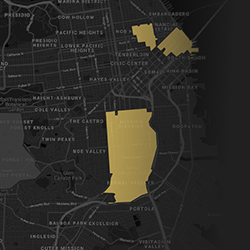
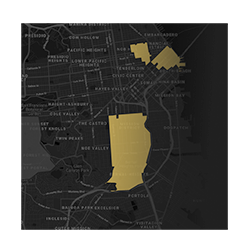
Updated images, template
Justified text, changed font weights, added email preferences link. made images same width (removed transparent padding.

diff --git a/Email/introducing_insight_email_template.html b/Email/introducing_insight_email_template.html
@@ -245,14 +245,14 @@
                         <table border="0" cellpadding="0" cellspacing="0" role="presentation" style="vertical-align:top;" width="100%">
                           <tr>
                             <td align="left" style="font-size:0px;padding:10px 25px;word-break:break-word;">
-                              <div style="font-family:'Muli',Arial,Helvetica,sans-serif;font-size:17px;font-weight:normal;line-height:26px;text-align:left;color:#1F789B;">
+                              <div style="font-family:'Muli',Arial,Helvetica,sans-serif;font-size:17px;font-weight:600;line-height:26px;text-align:justify;color:#1F789B;">
                                 <div pardot-region="">We've made it faster to get around the platform.</div>
                               </div>
                             </td>
                           </tr>
                           <tr>
                             <td align="left" style="font-size:0px;padding:10px 25px;word-break:break-word;">
-                              <div style="font-family:'Muli',Arial,Helvetica,sans-serif;font-size:14px;font-weight:300;line-height:21px;text-align:left;color:#414141;">
+                              <div style="font-family:'Muli',Arial,Helvetica,sans-serif;font-size:14px;font-weight:400;line-height:21px;text-align:justify;color:#414141;">
                                 <div pardot-region="">A <strong>redesigned navigation</strong> will make it easier to get where you want to go. Navigation will stay on the left side of the page. You can collapse the menu if you need more space. Looking for something specific? we've added a <strong>"jump to page"</strong> function that has a keyboard shortcut (Ctrl/Cmd + K).</div>
                               </div>
                             </td>
@@ -333,14 +333,14 @@
                         <table border="0" cellpadding="0" cellspacing="0" role="presentation" style="vertical-align:top;" width="100%">
                           <tr>
                             <td align="left" style="font-size:0px;padding:10px 25px;word-break:break-word;">
-                              <div style="font-family:'Muli',Arial,Helvetica,sans-serif;font-size:17px;font-weight:normal;line-height:26px;text-align:left;color:#ffda6b;">
+                              <div style="font-family:'Muli',Arial,Helvetica,sans-serif;font-size:17px;font-weight:600;line-height:26px;text-align:justify;color:#ffda6b;">
                                 <div pardot-region="">We've made it faster to get around the platform.</div>
                               </div>
                             </td>
                           </tr>
                           <tr>
                             <td align="left" style="font-size:0px;padding:10px 25px;word-break:break-word;">
-                              <div style="font-family:'Muli',Arial,Helvetica,sans-serif;font-size:14px;font-weight:300;line-height:21px;text-align:left;color:#ffffff;">
+                              <div style="font-family:'Muli',Arial,Helvetica,sans-serif;font-size:14px;font-weight:400;line-height:21px;text-align:justify;color:#ffffff;">
                                 <div pardot-region="">We've completely <strong>upgraded the Create Projects user flow</strong> to make it easier to create new analyses in the platform. Don't worry, you can still use the old Create Projects user flow, it just has our new color scheme. Note: <strong>Projects are now called Analyses</strong> in the redesigned interface.</div>
                               </div>
                             </td>
@@ -383,7 +383,7 @@
               <table align="center" border="0" cellpadding="0" cellspacing="0" role="presentation" style="width:100%;">
                 <tbody>
                   <tr>
-                    <td style="direction:rtl;font-size:0px;padding:20px 0;text-align:center;">
+                    <td style="direction:ltr;font-size:0px;padding:20px 0;text-align:center;">
                       <!--[if mso | IE]>
                   <table role="presentation" border="0" cellpadding="0" cellspacing="0">
                 
@@ -421,14 +421,14 @@
                         <table border="0" cellpadding="0" cellspacing="0" role="presentation" style="vertical-align:top;" width="100%">
                           <tr>
                             <td align="left" style="font-size:0px;padding:10px 25px;word-break:break-word;">
-                              <div style="font-family:'Muli',Arial,Helvetica,sans-serif;font-size:17px;font-weight:normal;line-height:26px;text-align:left;color:#1F789B;">
+                              <div style="font-family:'Muli',Arial,Helvetica,sans-serif;font-size:17px;font-weight:600;line-height:26px;text-align:justify;color:#1F789B;">
                                 <div pardot-region="">We have a new coat of paint.</div>
                               </div>
                             </td>
                           </tr>
                           <tr>
                             <td align="left" style="font-size:0px;padding:10px 25px;word-break:break-word;">
-                              <div style="font-family:'Muli',Arial,Helvetica,sans-serif;font-size:14px;font-weight:300;line-height:21px;text-align:left;color:#414141;">
+                              <div style="font-family:'Muli',Arial,Helvetica,sans-serif;font-size:14px;font-weight:400;line-height:21px;text-align:justify;color:#414141;">
                                 <div pardot-region="">We're making some changes to <strong>increase the usability</strong> of our software. Starting with this release, our updated color theme helps create contrast so that <strong>page elements are easier to see.</strong></div>
                               </div>
                             </td>
@@ -485,7 +485,7 @@
                         <table border="0" cellpadding="0" cellspacing="0" role="presentation" style="vertical-align:top;" width="100%">
                           <tr>
                             <td align="center" style="font-size:0px;padding:10px 25px;word-break:break-word;">
-                              <div style="font-family:'Muli',Arial,Helvetica,sans-serif;font-size:17px;font-weight:normal;line-height:26px;text-align:center;color:#ffffff;">
+                              <div style="font-family:'Muli',Arial,Helvetica,sans-serif;font-size:17px;font-weight:600;line-height:26px;text-align:center;color:#ffffff;">
                                 <div pardot-region="">Ready to dive in?</div>
                               </div>
                             </td>
@@ -541,11 +541,11 @@
                       <div class="mj-column-per-50 outlook-group-fix" style="font-size:0px;text-align:left;direction:ltr;display:inline-block;vertical-align:top;width:100%;">
                         <table border="0" cellpadding="0" cellspacing="0" role="presentation" style="vertical-align:top;" width="100%">
                           <tr>
-                            <td align="center" vertical-align="middle" pardot-region="" style="font-size:0px;padding:10px 25px;word-break:break-word;">
+                            <td align="center" vertical-align="middle" style="font-size:0px;padding:10px 25px;word-break:break-word;">
                               <table border="0" cellpadding="0" cellspacing="0" role="presentation" style="border-collapse:separate;width:100%;line-height:100%;">
                                 <tr>
                                   <td align="center" bgcolor="#ffda6b" role="presentation" style="border:1px solid #040402;border-radius:5px;cursor:auto;mso-padding-alt:10px 25px;background:#ffda6b;" valign="middle">
-                                    <a href="#" pardot-region="" style="display:inline-block;background:#ffda6b;color:#040402;font-family:'Muli',Arial,Helvetica,sans-serif;font-size:14px;font-weight:600;line-height:21px;margin:0;text-decoration:none;text-transform:uppercase;padding:10px 25px;mso-padding-alt:0px;border-radius:5px;" target="_blank"> Register for Training </a>
+                                    <a pardot-region="" href="#" style="display:inline-block;background:#ffda6b;color:#040402;font-family:'Muli',Arial,Helvetica,sans-serif;font-size:14px;font-weight:600;line-height:21px;margin:0;text-decoration:none;text-transform:uppercase;padding:10px 25px;mso-padding-alt:0px;border-radius:5px;" target="_blank"> Register for Training </a>
                                   </td>
                                 </tr>
                               </table>
@@ -563,7 +563,7 @@
                       <div class="mj-column-per-50 outlook-group-fix" style="font-size:0px;text-align:left;direction:ltr;display:inline-block;vertical-align:top;width:100%;">
                         <table border="0" cellpadding="0" cellspacing="0" role="presentation" style="vertical-align:top;" width="100%">
                           <tr>
-                            <td align="center" vertical-align="middle" pardot-region="" style="font-size:0px;padding:10px 25px;word-break:break-word;">
+                            <td align="center" vertical-align="middle" style="font-size:0px;padding:10px 25px;word-break:break-word;">
                               <table border="0" cellpadding="0" cellspacing="0" role="presentation" style="border-collapse:separate;width:100%;line-height:100%;">
                                 <tr>
                                   <td align="center" bgcolor="#040402" role="presentation" style="border:1px solid #ffda6b;border-radius:5px;cursor:auto;mso-padding-alt:10px 25px;background:#040402;" valign="middle">
@@ -718,7 +718,7 @@
                           </tr>
                           <tr>
                             <td align="left" style="font-size:0px;padding:10px 25px;word-break:break-word;">
-                              <div style="font-family:'Muli',Arial,Helvetica,sans-serif;font-size:12px;font-weight:300;line-height:19px;text-align:left;color:#ffffff;">StreetLight Data<br />
+                              <div style="font-family:'Muli',Arial,Helvetica,sans-serif;font-size:12px;font-weight:400;line-height:19px;text-align:left;color:#ffffff;">StreetLight Data<br />
                                 <a href="#" class="whiteLink" style="color: #FFFFFF !important; text-decoration: none !important;"><span style="color: #FFFFFF !important; text-decoration: none !important;">
                                     <font style="color: #FFFFFF !important; text-decoration: none !important;">677 Harrison Street<br /> San Francisco, CA 94107</font>
                                   </span></a></div>
@@ -726,12 +726,14 @@
                           </tr>
                           <tr>
                             <td align="left" style="font-size:0px;padding:10px 25px;word-break:break-word;">
-                              <div style="font-family:'Muli',Arial,Helvetica,sans-serif;font-size:12px;font-weight:300;line-height:19px;text-align:left;color:#ffffff;">You received this email because you are a StreetLight Data customer.</div>
+                              <div style="font-family:'Muli',Arial,Helvetica,sans-serif;font-size:12px;font-weight:400;line-height:19px;text-align:left;color:#ffffff;">You received this email because you are a StreetLight Data customer.</div>
                             </td>
                           </tr>
                           <tr>
                             <td align="left" style="font-size:0px;padding:10px 25px;word-break:break-word;">
-                              <div style="font-family:'Muli',Arial,Helvetica,sans-serif;font-size:12px;font-weight:300;line-height:19px;text-align:left;color:#ffffff;"><a href="%%unsubscribe%%" class="whiteLink" style="color: #FFFFFF !important; text-decoration: underline !important;"><span style="color: #FFFFFF !important; text-decoration: underline !important;">
+                              <div style="font-family:'Muli',Arial,Helvetica,sans-serif;font-size:12px;font-weight:400;line-height:19px;text-align:left;color:#ffffff;"><a href="%%email_preference_center%%" class="whiteLink" style="color: #FFFFFF !important; text-decoration: underline !important;"><span style="color: #FFFFFF !important; text-decoration: underline !important;">
+                                <font style="color: #FFFFFF !important; text-decoration: underline !important;">Manage Subscription Preferences</font>
+                              </span></a> | <a href="%%unsubscribe%%" class="whiteLink" style="color: #FFFFFF !important; text-decoration: underline !important;"><span style="color: #FFFFFF !important; text-decoration: underline !important;">
                                     <font style="color: #FFFFFF !important; text-decoration: underline !important;">Unsubscribe</font>
                                   </span></a></div>
                             </td>
